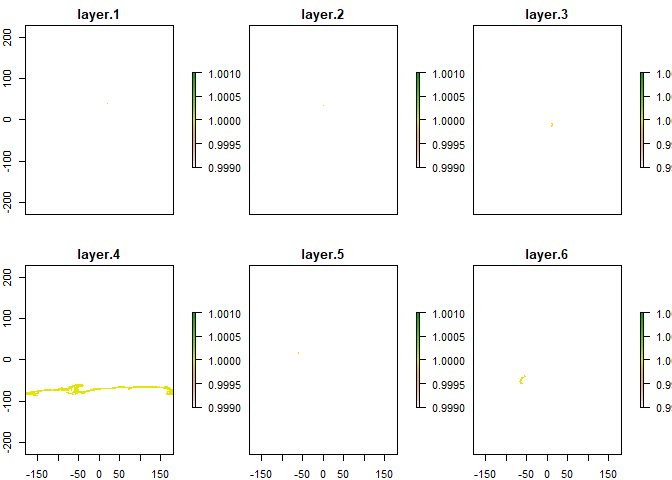
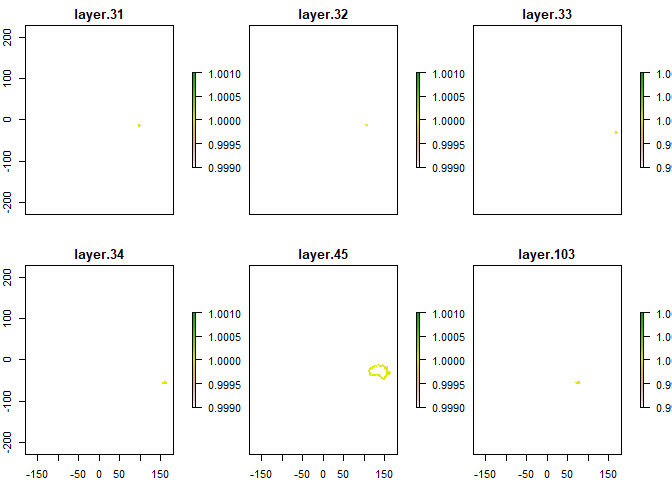
Updating mask for EEZ. It now uses GEONAME column as basis for raster mask creation

diff --git a/Scripts/Creating_Mask_EEZs.md b/Scripts/Creating_Mask_EEZs.md
@@ -3,37 +3,39 @@ Creating raster mask from EEZs of the world shapefile
 Denisse Fierro Arcos
 2022-11-07
 
--   <a href="#introduction" id="toc-introduction">Introduction</a>
--   <a href="#loading-r-libraries" id="toc-loading-r-libraries">Loading R
+- <a href="#introduction" id="toc-introduction">Introduction</a>
+- <a href="#loading-r-libraries" id="toc-loading-r-libraries">Loading R
+  libraries</a>
+- <a href="#loading-shapefiles" id="toc-loading-shapefiles">Loading
+  shapefiles</a>
+- <a href="#plotting-fao-regions-shapefile"
+  id="toc-plotting-fao-regions-shapefile">Plotting FAO regions
+  shapefile</a>
+- <a href="#extracting-names-and-codes-for-eez"
+  id="toc-extracting-names-and-codes-for-eez">Extracting names and codes
+  for EEZ</a>
+- <a href="#creating-a-multilayer-raster-mask-based-on-merged-shapefile"
+  id="toc-creating-a-multilayer-raster-mask-based-on-merged-shapefile">Creating
+  a multilayer raster mask based on merged shapefile</a>
+  - <a href="#loading-input-rasters" id="toc-loading-input-rasters">Loading
+    input rasters</a>
+  - <a href="#calculate-grid-area" id="toc-calculate-grid-area">Calculate
+    grid area</a>
+  - <a href="#defining-function-to-create-rasters-from-shapefiles"
+    id="toc-defining-function-to-create-rasters-from-shapefiles">Defining
+    function to create rasters from shapefiles</a>
+  - <a href="#applying-function-to-list-containing-all-shapefiles"
+    id="toc-applying-function-to-list-containing-all-shapefiles">Applying
+    function to list containing all shapefiles</a>
+- <a href="#python-based-code"
+  id="toc-python-based-code"><code>Python</code>-based code</a>
+  - <a href="#loading-libraries" id="toc-loading-libraries">Loading
     libraries</a>
--   <a href="#loading-shapefiles" id="toc-loading-shapefiles">Loading
-    shapefiles</a>
--   <a href="#plotting-fao-regions-shapefile"
-    id="toc-plotting-fao-regions-shapefile">Plotting FAO regions
-    shapefile</a>
--   <a href="#extracting-names-and-codes-for-eez"
-    id="toc-extracting-names-and-codes-for-eez">Extracting names and codes
-    for EEZ</a>
--   <a href="#creating-a-multilayer-raster-mask-based-on-merged-shapefile"
-    id="toc-creating-a-multilayer-raster-mask-based-on-merged-shapefile">Creating
-    a multilayer raster mask based on merged shapefile</a>
-    -   <a href="#loading-input-rasters" id="toc-loading-input-rasters">Loading
-        input rasters</a>
-    -   <a href="#defining-function-to-create-rasters-from-shapefiles"
-        id="toc-defining-function-to-create-rasters-from-shapefiles">Defining
-        function to create rasters from shapefiles</a>
-    -   <a href="#applying-function-to-list-containing-all-shapefiles"
-        id="toc-applying-function-to-list-containing-all-shapefiles">Applying
-        function to list containing all shapefiles</a>
--   <a href="#python-based-code"
-    id="toc-python-based-code"><code>Python</code>-based code</a>
-    -   <a href="#loading-libraries" id="toc-loading-libraries">Loading
-        libraries</a>
-    -   <a href="#loading-raster-using-xarray"
-        id="toc-loading-raster-using-xarray">Loading raster using
-        <code>xarray</code></a>
-    -   <a href="#plotting-results" id="toc-plotting-results">Plotting
-        results</a>
+  - <a href="#loading-raster-using-xarray"
+    id="toc-loading-raster-using-xarray">Loading raster using
+    <code>xarray</code></a>
+  - <a href="#plotting-results" id="toc-plotting-results">Plotting
+    results</a>
 
 ## Introduction
 
@@ -65,13 +67,8 @@ interest and corrects the errors identified above.
 ``` r
 #Load shapefile with EEZ
 eez_world <- read_sf("../Data/World_EEZ_v11_20191118/eez_v11.shp") %>%
-  #Subset of columns
-  select(-c(MRGID, MRGID_TER1, MRGID_SOV1:ISO_TER1, MRGID_TER2:Y_1, ISO_SOV2:UN_TER3)) %>% 
-  #Fixing issues with coding of countries
-  mutate(SOVEREIGN1 = case_when(ISO_SOV1 == "MUS" ~ "Mauritius",
-                                T ~ SOVEREIGN1),
-         ISO_SOV1 = case_when(SOVEREIGN1 == "United Kingdom" ~ "GBR",
-                              T ~ ISO_SOV1)) %>% 
+   #Subset of columns
+  select(MRGID, GEONAME, POL_TYPE, SOVEREIGN1, SOVEREIGN2, SOVEREIGN3, AREA_KM2) %>% 
   #Turning character columns into factors
   mutate_if(is.character, as.factor)
 
@@ -79,18 +76,36 @@ eez_world <- read_sf("../Data/World_EEZ_v11_20191118/eez_v11.shp") %>%
 head(eez_world, 2)
 ```
 
-    ## Simple feature collection with 2 features and 6 fields
+    ## Simple feature collection with 2 features and 7 fields
     ## Geometry type: MULTIPOLYGON
     ## Dimension:     XY
     ## Bounding box:  xmin: -173.7747 ymin: -17.55527 xmax: -10.93248 ymax: -4.537529
     ## Geodetic CRS:  WGS 84
-    ## # A tibble: 2 × 7
-    ##   GEONAME      POL_T…¹ SOVER…² MRGID…³ AREA_…⁴ ISO_S…⁵                  geometry
-    ##   <fct>        <fct>   <fct>     <dbl>   <dbl> <fct>          <MULTIPOLYGON [°]>
-    ## 1 American Sa… 200NM   United…    8444  405830 USA     (((-166.6411 -17.55527, …
-    ## 2 Ascension E… 200NM   United…    8379  446005 GBR     (((-10.93328 -7.887451, …
-    ## # … with abbreviated variable names ¹POL_TYPE, ²SOVEREIGN1, ³MRGID_EEZ,
-    ## #   ⁴AREA_KM2, ⁵ISO_SOV1
+    ## # A tibble: 2 × 8
+    ##   MRGID GEONAME                          POL_T…¹ SOVER…² SOVER…³ SOVER…⁴ AREA_…⁵
+    ##   <dbl> <fct>                            <fct>   <fct>   <fct>   <fct>     <dbl>
+    ## 1  8444 American Samoa Exclusive Econom… 200NM   United… <NA>    <NA>     405830
+    ## 2  8379 Ascension Exclusive Economic Zo… 200NM   United… <NA>    <NA>     446005
+    ## # … with 1 more variable: geometry <MULTIPOLYGON [°]>, and abbreviated variable
+    ## #   names ¹POL_TYPE, ²SOVEREIGN1, ³SOVEREIGN2, ⁴SOVEREIGN3, ⁵AREA_KM2
+
+``` r
+#Save key to identify EEZ and countries associated with them from extracted data files
+eez_names_codes <- eez_world %>% 
+  st_drop_geometry()
+```
+
+Saving the shapefile and keys for reference.
+
+``` r
+#Saving the corrected shapefile
+eez_world %>% 
+  st_write("../Data/World_EEZ_v11_20191118/eez_short.shp", delete_layer = T)
+
+#Saving keys
+eez_names_codes %>% 
+  write_csv("../Data/World_EEZ_v11_20191118/eez_key.csv")
+```
 
 ## Plotting FAO regions shapefile
 
@@ -116,8 +131,8 @@ raster
 
 ``` r
 #Create a data frame of unique FAO regions
-eez_names_codes <-  eez_world %>% 
-  group_by(SOVEREIGN1) %>% 
+eez_names_codes <-  eez_names_codes %>% 
+  group_by(MRGID) %>% 
   group_keys()
 
 #We can check some of the results
@@ -125,10 +140,10 @@ head(eez_names_codes, 2)
 ```
 
     ## # A tibble: 2 × 1
-    ##   SOVEREIGN1
-    ##   <fct>     
-    ## 1 Albania   
-    ## 2 Algeria
+    ##   MRGID
+    ##   <dbl>
+    ## 1  3293
+    ## 2  5668
 
 ## Creating a multilayer raster mask based on merged shapefile
 
@@ -147,16 +162,25 @@ deg1 <- raster("../Data/InputRasters/gfdl-mom6-cobalt2_obsclim_deptho_onedeg_glo
 ``` r
 #Sample from DBPM model
 #deg1 <- raster("../Data/dbpm_ipsl-cm6a-lr_nobasd_historical_nat_default_tcb_global_monthly_1850_2014.nc")[[1]]
+#Sample from DBEM model
+#deg05 <- raster("../Data/dbem_ipsl-cm6a-lr_nobasd_historical_nat_default_tcb_global_annual_1951_2014.nc")[[1]]
 
 #Plotting raster
 plot(deg1)
 ```
 
 ![](Creating_Mask_EEZs_files/figure-gfm/load_rasters_input-1.png)<!-- -->
-\### Calculate grid area The `raster` package allows us to calculate the
-area of grid cells in $km^2$ in just one line of code. We can save this
-to calculate weighted means by area. We will use the raster above as a
-base, and we will save the result on our disk.
+
+``` r
+#plot(deg05)
+```
+
+### Calculate grid area
+
+The `raster` package allows us to calculate the area of grid cells in
+$km^2$ in just one line of code. We can save this to calculate weighted
+means by area. We will use the raster above as a base, and we will save
+the result on our disk.
 
 ``` r
 #Calculating grid area
@@ -186,7 +210,7 @@ shp_to_raster <- function(shp, nc_raster){
 ``` r
 #Split shapefile into regions prior to transforming into raster
 eez_list <- eez_world %>% 
-  group_by(SOVEREIGN1) %>% 
+  group_by(MRGID) %>% 
   group_split()
 
 #Applying function to raster list
@@ -194,15 +218,15 @@ deg1_raster <- map(eez_list, shp_to_raster, deg1) %>%
   #Stacking rasters to create a single multilayer raster
   stack()
 
-#Checking results of stacked raster (first six regions)...
-plot(deg1_raster[[1:6]])
+#Checking results of stacked raster (selected Australian EEZs)...
+plot(deg1_raster[[c(31:34, 45, 103)]])
 ```
 
 ![](Creating_Mask_EEZs_files/figure-gfm/mapping_function-1.png)<!-- -->
 
 ``` r
 #Saving raster to disk
-writeRaster(deg1_raster, "../Data/Masks/EEZ-world_1degmask_DBPM.nc", format = "CDF", overwrite = T,
+writeRaster(deg1_raster, "../Data/Masks/EEZ-world_1degmask.nc", format = "CDF", overwrite = T,
             varname = "EEZ_regions", zname = "Country_EEZ")
 ```
 
@@ -215,6 +239,9 @@ regions in the `netcdf` file we created in `R`.
 #Activating conda
 use_condaenv(Sys.getenv("RETICULATE_PYTHON"))
 ```
+
+    ## Warning in use_condaenv(Sys.getenv("RETICULATE_PYTHON")): path supplied to use_condaenv() is not a conda python:
+    ##  C:/Users/ldfierro/OneDrive - University of Tasmania/FishMIP/FishMIP_extracting-data/FishMIP_env_Python/python.exe
 
 ## Loading libraries
 
@@ -235,24 +262,24 @@ import pandas as pd
 
 ``` python
 #Loading multilayer raster as dataset
-mask = xr.open_dataset("../Data/Masks/EEZ-world_1degmask_DBPM.nc")
+mask = xr.open_dataset("../Data/Masks/EEZ-world_1degmask.nc")
 #Checking saved file in R
 mask
 ```
 
     ## <xarray.Dataset>
-    ## Dimensions:      (longitude: 360, latitude: 180, Country_EEZ: 157)
+    ## Dimensions:      (longitude: 360, latitude: 180, Country_EEZ: 281)
     ## Coordinates:
-    ##   * longitude    (longitude) float64 -180.0 -179.0 -178.0 ... 177.0 178.0 179.0
+    ##   * longitude    (longitude) float64 -179.5 -178.5 -177.5 ... 177.5 178.5 179.5
     ##   * latitude     (latitude) float64 89.5 88.5 87.5 86.5 ... -87.5 -88.5 -89.5
-    ##   * Country_EEZ  (Country_EEZ) int32 1 2 3 4 5 6 7 ... 152 153 154 155 156 157
+    ##   * Country_EEZ  (Country_EEZ) int32 1 2 3 4 5 6 7 ... 276 277 278 279 280 281
     ## Data variables:
     ##     crs          int32 ...
     ##     EEZ_regions  (Country_EEZ, latitude, longitude) float32 ...
     ## Attributes:
     ##     Conventions:  CF-1.4
     ##     created_by:   R, packages ncdf4 and raster (version 3.5-29)
-    ##     date:         2022-11-08 10:26:51
+    ##     date:         2022-12-02 13:13:36
 
 Here we can see that the FAO region names are not saved correctly. They
 are numbered based on its location on the shapefile. We can update this
@@ -266,31 +293,38 @@ eez_keys = r.eez_names_codes
 eez_keys
 ```
 
-    ##               SOVEREIGN1
-    ## 0                Albania
-    ## 1                Algeria
-    ## 2                 Angola
-    ## 3             Antarctica
-    ## 4    Antigua and Barbuda
-    ## ..                   ...
-    ## 152              Vanuatu
-    ## 153            Venezuela
-    ## 154              Vietnam
-    ## 155       Western Sahara
-    ## 156                Yemen
+    ##        MRGID
+    ## 0     3293.0
+    ## 1     5668.0
+    ## 2     5669.0
+    ## 3     5670.0
+    ## 4     5672.0
+    ## ..       ...
+    ## 276  50167.0
+    ## 277  50170.0
+    ## 278  62589.0
+    ## 279  62596.0
+    ## 280  62598.0
     ## 
-    ## [157 rows x 1 columns]
+    ## [281 rows x 1 columns]
 
-We can now update the names on the `netcdf` file.
+We can now update the names on the `netcdf` file using the ID codes for
+each EEZ.
 
 ``` python
 #We will use the values in the data frame we loaded above
-new_mask = []
-for i, j in enumerate(mask.EEZ_regions):
-  new_mask.append(j.drop('Country_EEZ').expand_dims({'Country': [eez_keys.SOVEREIGN1.iloc[i]]}))
+mask['Country_EEZ'] = [int(i) for i in eez_keys.MRGID]
+```
 
-new_mask = xr.concat(new_mask, dim = 'Country').to_dataset()
-new_mask = new_mask.rename({'latitude': 'lat', 'longitude': 'lon'})
+We will load the full keys into memory and we will select all EEZ areas
+for Australia to ensure masks are correct.
+
+``` python
+#Loading keys
+eez_full_keys = pd.read_csv('../Data/World_EEZ_v11_20191118/eez_key.csv')
+
+#Selecting Australian subset
+aus_eez = mask.sel(Country_EEZ = eez_full_keys['MRGID'][eez_full_keys['SOVEREIGN1'] == 'Australia'].tolist()).EEZ_regions
 ```
 
 ## Plotting results
@@ -299,20 +333,20 @@ We will plot all regions below to ensure we got them all correctly.
 
 ``` python
 #We will loop through the first five to check results
-for reg in new_mask.EEZ_regions[0:5]:
+for reg in aus_eez:
   #Plotting results
   fig = plt.figure()
   ax = fig.add_subplot(111)
   reg.plot(ax = ax, levels = [1, 2])
-  plt.title(reg.Country.values.tolist())
+  plt.title(reg.Country_EEZ.values.tolist())
   plt.show()
 ```
 
-![](Creating_Mask_EEZs_files/figure-gfm/unnamed-chunk-8-1.png)<!-- -->![](Creating_Mask_EEZs_files/figure-gfm/unnamed-chunk-8-2.png)<!-- -->![](Creating_Mask_EEZs_files/figure-gfm/unnamed-chunk-8-3.png)<!-- -->![](Creating_Mask_EEZs_files/figure-gfm/unnamed-chunk-8-4.png)<!-- -->![](Creating_Mask_EEZs_files/figure-gfm/unnamed-chunk-8-5.png)<!-- -->![](Creating_Mask_EEZs_files/figure-gfm/unnamed-chunk-8-6.png)<!-- -->
+![](Creating_Mask_EEZs_files/figure-gfm/unnamed-chunk-10-1.png)<!-- -->![](Creating_Mask_EEZs_files/figure-gfm/unnamed-chunk-10-2.png)<!-- -->![](Creating_Mask_EEZs_files/figure-gfm/unnamed-chunk-10-3.png)<!-- -->![](Creating_Mask_EEZs_files/figure-gfm/unnamed-chunk-10-4.png)<!-- -->![](Creating_Mask_EEZs_files/figure-gfm/unnamed-chunk-10-5.png)<!-- -->![](Creating_Mask_EEZs_files/figure-gfm/unnamed-chunk-10-6.png)<!-- -->![](Creating_Mask_EEZs_files/figure-gfm/unnamed-chunk-10-7.png)<!-- -->
 When comparing to the shapefile plots in the `R` section of this
 notebook, we can see that the regions are named correctly. This means
 that we can save our results now.
 
 ``` python
-new_mask.to_netcdf("../Data/Masks/EEZ-world-corrected_1degmask_DBPM.nc")
+mask.to_netcdf("../Data/Masks/EEZ-world-corrected_1degmask.nc")
 ```
